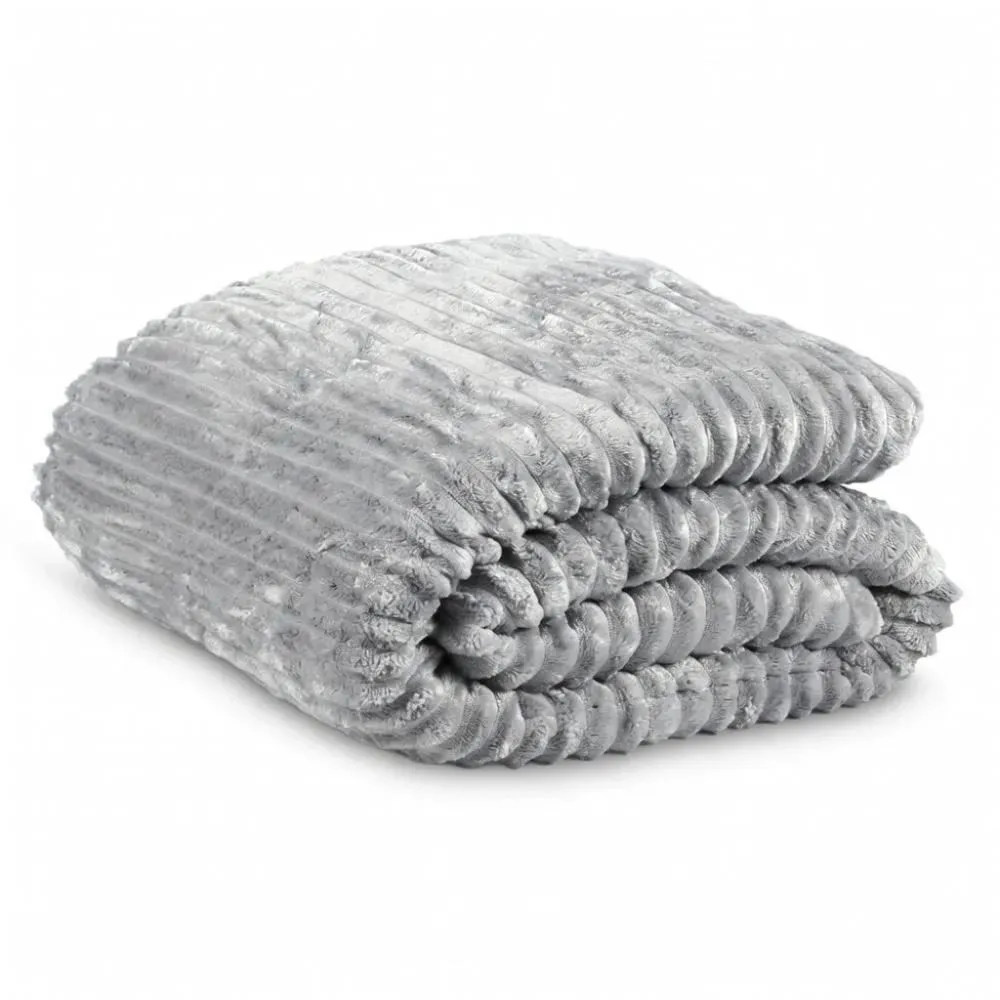
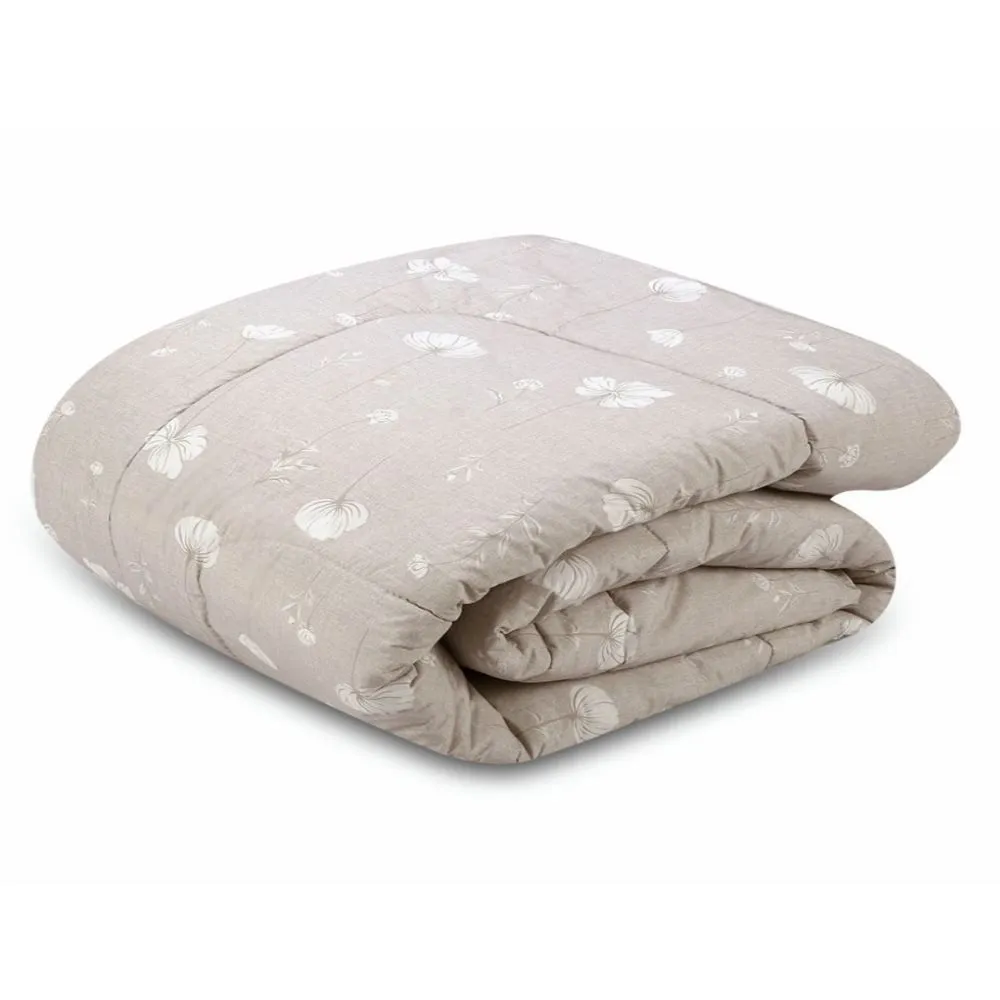
novos

Changed region(s): [[0.031, 0.217, 0.961, 0.806]]

diff --git a/index.html b/index.html
@@ -161,9 +161,9 @@
                     <a target="_blank" href="https://www.mercadolivre.com.br/electrolux-efficient-esi10-a-vapor-e-ferro-seco-cor-azul/p/MLB25396633?pdp_filters=item_id%3AMLB4063438401&from=gshop&matt_tool=38545640&matt_word=&matt_source=google&matt_campaign_id=22090354508&matt_ad_group_id=194474657914&matt_match_type=&matt_network=g&matt_device=c&matt_creative=792396419965&matt_keyword=&matt_ad_position=&matt_ad_type=pla&matt_merchant_id=735098660&matt_product_id=MLB25396633-product&matt_product_partition_id=2453247871816&matt_target_id=aud-2009166904988:pla-2453247871816&cq_src=google_ads&cq_cmp=22090354508&cq_net=g&cq_plt=gp&cq_med=pla&gad_source=4&gad_campaignid=22090354508&gbraid=0AAAAAD93qcBBbMlWdZgTu_2ZpQX4-cJlH&gclid=CjwKCAjw857RBhAgEiwAI-1yKHzpoSTuRh8Ir9nlHxARZUU5cd835hmg6A3bMQPu3Km9uiIc7IwK8xoChr4QAvD_BwE">Presentear</a>
                 </div>
 
-                <div class="card" data-item="Faqueiro">
+                <div class="card" data-item="Jogo de Talher">
                     <img src="./img/faqueiro.webp" alt="">
-                    <h3>Faqueiro</h3>
+                    <h3>Jogo de Talher</h3>
                     <p class="preco">Sugestão</p>
                     <a target="_blank" href="https://www.mercadolivre.com.br/faqueiro-tramontina-buzios-em-aco-inox-com-detalhe-24-pecas/p/MLB36709502?pdp_filters=item_id%3AMLB3970525547&from=gshop&matt_tool=37064035&matt_word=&matt_source=google&matt_campaign_id=22090354481&matt_ad_group_id=173090608036&matt_match_type=&matt_network=g&matt_device=c&matt_creative=727882733037&matt_keyword=&matt_ad_position=&matt_ad_type=pla&matt_merchant_id=735098639&matt_product_id=MLB36709502-product&matt_product_partition_id=2469474967651&matt_target_id=aud-2009166904988:pla-2469474967651&cq_src=google_ads&cq_cmp=22090354481&cq_net=g&cq_plt=gp&cq_med=pla&gad_source=4&gad_campaignid=22090354481&gbraid=0AAAAAD93qcASxlSwWazixQ3F3uKl0fXRy&gclid=CjwKCAjw857RBhAgEiwAI-1yKPpw1-eavS4HpCnbI-XaTebHTWXBHMbQ_Lijk3eo6M7V6drbG4U8NRoC7JoQAvD_BwE">Presentear</a>
                 </div>
@@ -172,7 +172,7 @@
                     <img src="./img/guardaroupa.webp" alt="">
                     <h3>Guarda-Roupa</h3>
                     <p class="preco">Sugestão</p>
-                    <a target="_blank" href="https://www.mercadolivre.com.br/guarda-roupa-casal-6-portas-2-gavetas-franca-wt/p/MLB42613392?product_trigger_id=MLB50525645&pdp_filters=item_id%3AMLB3907564203&applied_product_filters=MLB42613392&from=gshop&picker=true&matt_tool=30040270&matt_word=&matt_source=google&matt_campaign_id=23440873668&matt_ad_group_id=197094210651&matt_match_type=&matt_network=g&matt_device=c&matt_creative=792396423529&matt_keyword=&matt_ad_position=&matt_ad_type=pla&matt_merchant_id=735125422&matt_product_id=MLB42613392-product&matt_product_partition_id=2392305206071&matt_target_id=pla-2392305206071&cq_src=google_ads&cq_cmp=23440873668&cq_net=g&cq_plt=gp&cq_med=pla&gad_source=4&gad_campaignid=23440873668&gbraid=0AAAAAD93qcAeWoLekeiWCGgZwXF9Y-vmE&gclid=CjwKCAjw857RBhAgEiwAI-1yKP2VMuFpVAhKxU3DPq-iQsByEYQQGOmSqQ39Dzk_0Ur2GBJ1Z7WkAxoCsHkQAvD_BwE&quantity=1#reviews">Presentear</a>
+                    <a target="_blank" href="https://www.madeiramadeira.com.br/guarda-roupa-casal-8-portas-4-gavetas-paris-espresso-moveis-981468.html">Presentear</a>
                 </div>
 
                        <div class="card" data-item="Rack Tv">
@@ -182,6 +182,13 @@
                     <a target="_blank" href="https://www.madeiramadeira.com.br/rack-suspenso-eros-140cm-para-tv-ate-55-mdf-2-gavetas-mdf-alto-padrao-sala-de-estar-naturale-207713676.html">Presentear</a>
                 </div>
 
+                <div class="card" data-item="Cortina">
+                    <img src="./img/cortina.webp" alt="">
+                    <h3>Cortina</h3>
+                    <p class="preco">Sugestão</p>
+                    <a target="_blank" href="https://www.madeiramadeira.com.br/cortina-tecido-rustico-6-00m-x-2-40m-semi-blackout-areia-517341161.html">Presentear</a>
+                </div>
+
                 <div class="card" data-item="Jogo de Cama">
                     <img src="./img/jogodecana.webp" alt="">
                     <h3>Jogo de Cama</h3>
@@ -189,7 +196,7 @@
                     <a target="_blank" href="https://www.havan.com.br/jogo-de-cama-queen-4-pecas-buona-fortuna-celina-cru-novo/p">Presentear</a>
                 </div>
 
-                   <div class="card" data-item="Jogo de Cama">
+                   <div class="card" data-item="Jogo de Cama 2">
                     <img src="./img/jogodecama.webp" alt="">
                     <h3>Jogo de Cama</h3>
                     <p class="preco">Sugestão</p>
@@ -203,11 +210,11 @@
                     <a target="_blank" href="https://www.havan.com.br/edredom-queen-premier-lugano-havan-casa-prata/p">Presentear</a>
                 </div>
 
-                 <div class="card" data-item="Edredon">
+                 <div class="card" data-item="Edredon 2">
                     <img src="./img/edredon2.webp" alt="">
                     <h3>Edredon</h3>
                     <p class="preco">Sugestão</p>
-                    <a target="_blank" href="https://www.havan.com.br/edredom-queen-100-poliester-premier-canelado-havan-casa-prata/p">Presentear</a>
+                    <a target="_blank" href="https://www.havan.com.br/edredom-queen-king-100-algodao-buona-fortuna-celina-cru/p">Presentear</a>
                 </div>
 
                 <div class="card" data-item="Jogo de Toalhas">